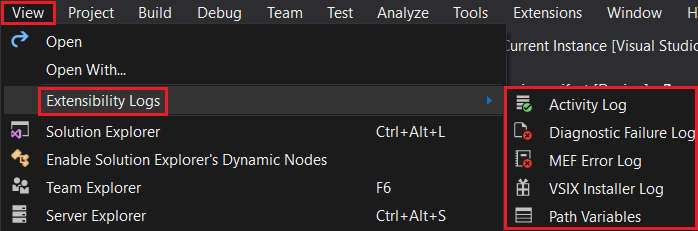
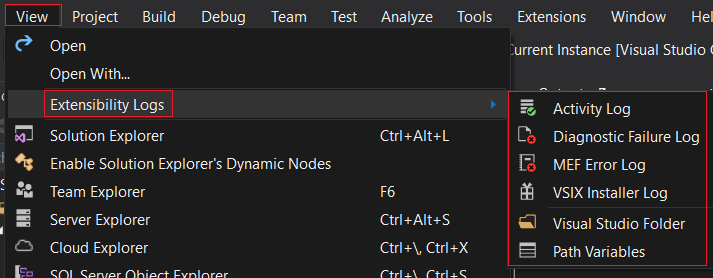
docs(*): update documentation sources

diff --git a/docs-source/features.md b/docs-source/features.md
@@ -2,9 +2,13 @@
 For those people who prefer their commands front-and-center, available all the time with a single click,
 this extension adds a new _Extensibility Logs_ toolbar. You'll need to enable the toolbar before you'll see it.
 
+![Menu](assets/images/toolbar.png)
+
 ## Menu
 For those people who don't want to add yet another toolbar, this extension also adds a new *Extensibility Logs* menu 
 to the _View_ menu.
+
+![Menu](assets/images/menu.png)
 
 ## Logs
 
@@ -55,42 +59,52 @@ Any logs/tools that have been disabled will still appear on the toolbar, but wil
 but they won't appear in the menu.
 The toolbar buttons can be hidden by removing them from the _Extensibility Logs_ toolbar.
 
-![Options](assets/images/options.png)
+### General Options
 
-### Enable Extensibility Logs
+![Options](assets/images/general-options.png)
+
+#### Enable Extensibility Logs
 
 This setting allows the whole set of _Extensibility Logs_ features to be turned off together.
 
-### Version Number
+#### Version Number
 
 Displays then version number of _Extensibility Logs_ that's currently installed.
 
-### Enable Activity Log
+### Logs Options
+
+![Options](assets/images/logs-options.png)
+
+#### Enable Activity Log
 
 The _Activity Log_ feature can be disabled by setting _Tools | Options | Extensibility Logs |  Enable Activity Log_
 to `false`.
 
-### Enable Diagnostic Failure Log
+#### Enable Diagnostic Failure Log
 
 The _Diagnostic Failure Log_ feature can be disabled by setting _Tools | Options | Extensibility Logs | Enable Diagnostic Log_
 to `false`.
 
-### Enable MEF Error Log
+#### Enable MEF Error Log
 
 The _MEF Error Log_ feature can be disabled by setting _Tools | Options | Extensibility Logs | Enable MEF Error Log_
 to `false`.
 
-### Enable VSIX Installer Log
+#### Enable VSIX Installer Log
 
 The _VSIX Installer Log_ feature can be disabled by setting _Tools | Options | Extensibility Logs | Enable MEF Error Log_
 to `false`.
 
-### Enable Visual Studio Folder
+### Tools Options
+
+![Options](assets/images/tools-options.png)
+
+#### Enable Visual Studio Folder
 
 The _Visual Studio Folder_ feature can be disabled by setting _Tools | Options | Extensibility Logs | Enable Open Visual Studio Folder_
 to `false`.
 
-### Enable Path Variables
+#### Enable Path Variables
 
 The _Path Variables_ feature can be disabled by setting _Tools | Options | Extensibility Logs | Enable Path Variables_
 to `false`.

diff --git a/docs-source/marketplace.md b/docs-source/marketplace.md
@@ -1,5 +1,5 @@
 ![Version][version-badge-url]
-[![License][license-badge]][license-url]
+[![License][license-badge]](https://github.com/luminous-software/extensibility-logs/blob/master/LICENSE)
 ![Develop Badge][develop-badge-url]
 ![Master Badge][master-badge-url]
 [![Donate][paypal-badge]](https://www.paypal.me/yannduran/5)
@@ -28,14 +28,14 @@ this extension adds a new toolbar to hold _Extensibility Logs_'s commands.
 
 ![Toolbar][toolbar-image-url]
 
-[toolbar-image-url]: https://github.com/luminous-software.solutions/extensibility-logs/blob/master/toolbar.png
+[toolbar-image-url]: https://raw.github.com/luminous-software/extensibility-logs/master/docs/assets/images/toolbar.png
 
 For those people who don't want to add yet another toolbar, this extension also adds a new *Extensibility Logs* menu 
 to the _View_ menu.
 
 ![Menu][menu-image-url]
 
-[menu-image-url]: https://github.com/luminous-software.solutions/extensibility-logs/blob/master/menu.png
+[menu-image-url]: https://raw.github.com/luminous-software/extensibility-logs/master/docs/assets/images/menu.png
 
 _Extensibility Logs_ gives you a one-click experience (on the toolbar),
 or a three-click experience (on the menu),

diff --git a/docs-source/roadmap.md b/docs-source/roadmap.md
@@ -12,7 +12,9 @@ They may, or may not, end up being added into _Extensibility Logs_.
 - [x] MEF Error Log
 - [ ] Service Hub Log
 - [ ] Visual Studio Setup Log
-- [ ] Enable/Disable VSIP Logging
+- [ ] Enable/Disable VSIP Logging?
+- [ ] Environment Variables?
+- [ ] Enhance Path Variables?
 
 ## Contributions
 

diff --git a/docs-source/changelog.md b/docs-source/changelog.md
@@ -1,5 +1,10 @@
 ## Public Releases
 
+### v1.3 - 2019-04-10
+  - added 'Visual Studio Folder'
+  - added 'Logs' group and 'Tools' group
+  - added 'Logs' options and 'Tools' options
+
 ### v1.2.3 - 2019-04-04
   - fixed image links
 
